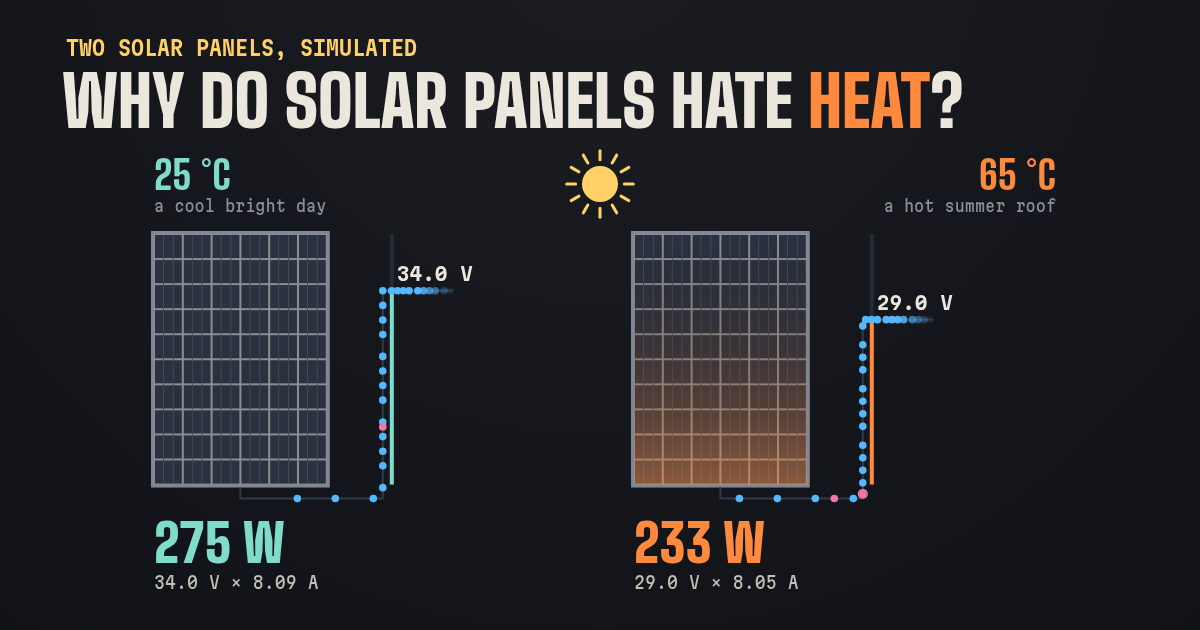
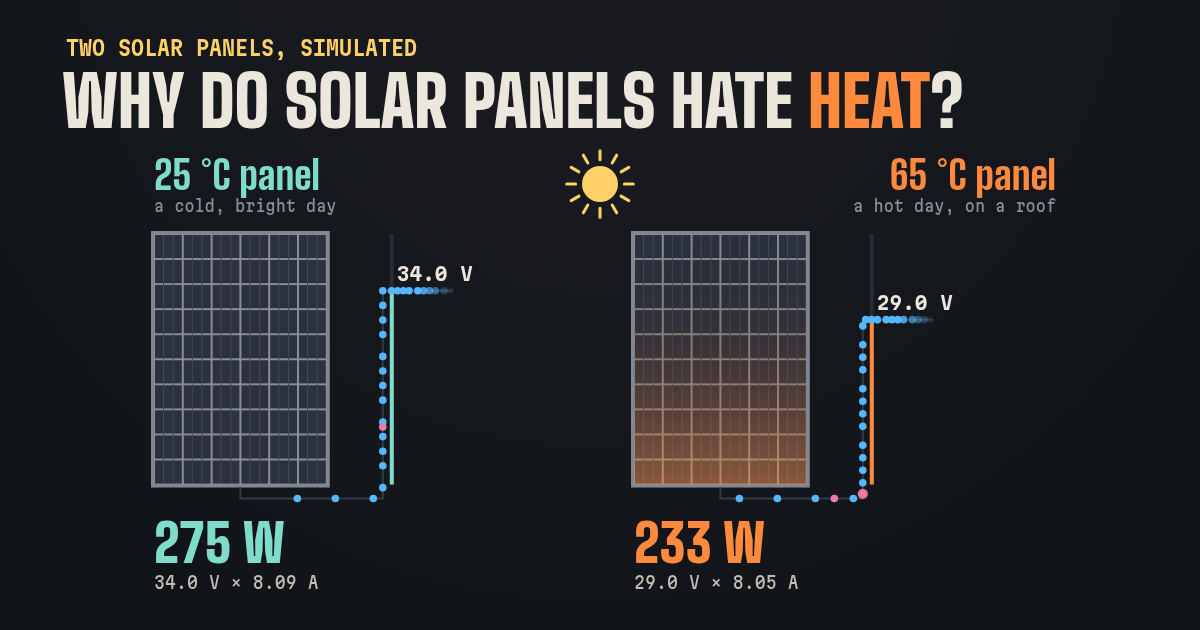
Solar heat: after the framing review, the why in the film (the hill, a dot legend, readable meters), the lede says the mechanism, picture 2 leads with its point, held panels agree at 0 W

Changed region(s): [[0.7092, 0.2413, 0.8942, 0.3619], [0.1542, 0.2413, 0.2775, 0.3619]]

diff --git a/src/explorables/solar-heat/index.html b/src/explorables/solar-heat/index.html
@@ -161,8 +161,8 @@ h1 em { font-style: normal; color: var(--hot); }
     <p class="kicker" style="margin-top:34px">A solar panel, three pictures</p>
     <h1>Why do solar panels hate <em>heat</em>?</h1>
     <p class="byline">Claude Opus 5.5 <span>//</span> 16 October 2026</p>
-    <p class="lede">Under the same sun, a solar panel on a hot summer roof makes about 15% less power than on a cool, bright day. Its sunlight isn't any weaker, and it hardly loses any electrons. What heat opens is a leak, and what the panel loses is the price of keeping that leak small.</p>
-    <p>Below are two identical panels under the same <span class="sun">sun</span>, simulated live in your browser: a <span class="cool">cool</span> one at 25 °C and a <span class="hot">hot</span> one at 65 °C. The bar that sticks to the top of the screen sets their temperatures and the sun, and can hold both at the same voltage.</p>
+    <p class="lede">Under the same sun, a solar panel on a hot roof makes about 15% less power than on a cold, bright day. It delivers just as many electrons, but each one carries less energy. The reason: heat lets electrons leak back over the panel's one-way hill, and to keep that leak small, a hot panel has to run at a lower voltage.</p>
+    <p>Below are two identical panels under the same <span class="sun">sun</span>, simulated live in your browser: a <span class="cool">cool</span> one at 25 °C and a <span class="hot">hot</span> one at 65 °C. (That's the panels' own temperature: in full sun, panels run 25 to 35 °C hotter than the air.) The bar that sticks to the top of the screen sets their temperatures and the sun, and can hold both at the same voltage.</p>
   </header>
 </div>
 
@@ -180,28 +180,29 @@ h1 em { font-style: normal; color: var(--hot); }
   <section class="col" id="panels">
     <p class="num-h">Picture 1</p>
     <h2>Two panels</h2>
-    <p>Each panel is 60 silicon cells joined in a row. In each cell, sunlight frees pairs of charges: an <span class="e">electron</span> and a <span class="h">hole</span>, the gap the electron left behind, which moves like a positive charge. A junction just under the cell's front surface sends electrons one way and holes the other. That one-way push is what drives a current round the circuit, at a voltage.</p>
+    <p>Each panel is 60 silicon cells joined in a row. In each cell, sunlight knocks <span class="e">electrons</span> loose, and a one-way junction just under the cell's front surface pushes them out round the circuit, at a voltage.</p>
     <figure class="fig">
       <canvas id="figPanels" aria-label="Two solar panels under one sun, each with its voltage, current and power, and below, each panel's power at every voltage"></canvas>
-      <figcaption>Top: each <span class="e">blue dot</span> is about 4 × 10¹⁸ electrons, delivered round the circuit, in real time. It rises as high as the panel's voltage, the energy each electron carries away. <span class="leak">Pink dots</span> leak back inside the panel and are lost. Bottom: each panel's power at every voltage it could run at; the dot is where it runs, at its peak. (The inverter a panel is wired to finds that peak by itself.)</figcaption>
+      <figcaption>Top: each <span class="e">blue dot</span> is a crowd of electrons (about 4 × 10¹⁸), delivered round the circuit, in real time. It climbs as high as the panel's voltage: the energy each electron carries away. <span class="leak">Pink dots</span> climb part way, leak back inside the panel and are lost. Bottom: each panel's power at every voltage it could run at; the dot is where it runs, at its peak.</figcaption>
     </figure>
-    <p>The <span class="hot">hot</span> panel makes 233 watts, the <span class="cool">cool</span> one 275: 15% less. Now look at the meters. Both deliver the same current, about 8.1 amps: the same number of electrons each second. What the hot one has lost is voltage, 29.0 volts instead of 34.0. Power is current times voltage, so the voltage is what costs it.</p>
-    <p>Why does it run at a lower voltage? Tick <i>hold both at the left one's best voltage</i>. At the cool panel's 34 volts, the hot panel delivers nothing at all (a trickle even runs backwards into it): every electron the sun frees in it leaks back inside. That leak is the whole story.</p>
+    <p>The <span class="hot">hot</span> panel makes 233 watts, the <span class="cool">cool</span> one 275: 15% less. Now look at the meters. Both deliver the same current, about 8.1 amps: the same number of electrons each second. What the hot one has lost is voltage, 29.0 volts instead of 34.0. Power is current times voltage, so the voltage is what costs it. (Each panel runs at its peak because the inverter it's wired to hunts for the peak by itself.)</p>
+    <p>Why does it run at a lower voltage? Tick <i>hold both at the left one's best voltage</i>. At 34 volts, the hot panel delivers nothing at all: its whole current leaks back inside. That leak is the whole story.</p>
     <div class="sh"><div class="shows"><h4>Shows</h4><p>How much power each panel makes, and that heat takes it from the voltage, not the current.</p></div><div class="hides"><h4>Hides</h4><p>What the leak is, and why heat makes it worse.</p></div></div>
   </section>
 
   <section class="col" id="hill">
     <p class="num-h">Picture 2</p>
     <h2>The hill</h2>
-    <p>Here's the leak. This is the front of one cell, its first 1.6 thousandths of a millimetre, drawn as an energy map: up is more energy for an electron. <span class="e">Electrons</span> move along the top band, <span class="h">holes</span> along the bottom one. Between the cell's thin front layer and its base, the electrons' band climbs a hill. Electrons freed in the base roll down it into the front layer, and out round the circuit. Holes go the other way. That's the one-way push.</p>
+    <p>Here's the leak. The higher a panel's voltage, the lower the hill inside each cell, and the more electrons leak back over it.</p>
+    <p>This is the front of one cell, its first 1.6 thousandths of a millimetre, drawn as an energy map: up is more energy for an electron. <span class="e">Electrons</span> move along the top band. The gaps they leave behind, called <span class="h">holes</span>, act like positive charges and move along the bottom one. Between the cell's thin front layer and its base, the electrons' band climbs a hill. Electrons freed by light in the base roll down it into the front layer and out round the circuit: that's the one-way push.</p>
     <figure class="fig">
       <canvas id="figHill" aria-label="An energy map of the front of a cell in each panel: the electrons' and holes' bands, the hill between the front layer and the base, and the split between the electrons' and holes' levels"></canvas>
-      <figcaption>Energy across the front 1.6 µm of one cell in each panel, in electronvolts per electron. Thin lines are the edges of the bands, the least energy an electron can have (top) and the most a hole's missing electron can (bottom); the thick lines are the levels the electrons and holes fill to. Their split is the cell's voltage; sixty cells give the panel's. (At the front contact, the holes' level drops to meet the electrons': holes that reach it are lost there.) "Gets over" is the share of the electrons at the foot of the hill that have the energy to reach its top.</figcaption>
+      <figcaption>Energy across the front 1.6 µm of one cell in each panel, in electronvolts per electron. Thin lines are the edges of the bands: the least energy an electron can have (top), and the most a hole's missing electron can (bottom). The thick lines are the levels the electrons and holes fill to; their split is the cell's voltage. "Gets over" is the share of the electrons at the foot of the hill that have the energy to reach its top. Holes leak too, the other way, into the front layer: in this cell, nearly half the leak. At the front contact, the holes' level drops to meet the electrons': holes that reach it are lost there.</figcaption>
     </figure>
-    <p>The thick lines are the levels the electrons and holes fill up to, and the split between them is the cell's voltage. The higher the voltage, the lower the hill. And some electrons in the front layer climb back over it, into the base, where they meet holes and are lost. (Holes leak the other way too, into the front layer: in this cell, nearly half the leak is holes.) That's the leak, and it grows with the voltage.</p>
-    <p>What lifts an electron over the hill is heat. Silicon's atoms jiggle, and pass their jiggling on to the electrons; only the luckiest few have the energy to climb it. In the cool panel at 34 volts, it's about one in 900 000. Hold the hot panel at the same voltage, and it's one in 35 000: twenty-six times as many. Heat does it twice over: the electrons jiggle harder, and in warm silicon the hill itself is lower.</p>
-    <p>So the hot panel runs at a lower voltage, where the hill is high enough to hold the leak down: 0.39 electronvolts against the cool one's 0.35.</p>
-    <div class="sh"><div class="shows"><h4>Shows</h4><p>The one-way push, the leak back over the hill, and why heat helps it.</p></div><div class="hides"><h4>Hides</h4><p>The other 178 µm of the cell, where the light frees most of its pairs.</p></div></div>
+    <p>The thick lines are the levels the electrons and holes fill up to, and the split between them is the cell's voltage (sixty cells make the panel's). Raise the voltage and the hill gets lower: electrons in the front layer start climbing back over it into the base, where they meet holes and are lost. That's the leak.</p>
+    <p>What lifts an electron over the hill is heat. Silicon's atoms jiggle, and pass their jiggling on to the electrons; only the luckiest few have the energy to climb. Hold both panels at 34 volts: in the cool one, about one electron in 900 000 at the foot of the hill gets over. In the hot one, it's one in 36 000: about twenty-five times as many. Heat does it twice over: the electrons jiggle harder, and at the same voltage, warm silicon's hill is lower (0.30 electronvolts, against 0.35).</p>
+    <p>So the hot panel backs off to 29 volts. A lower voltage means a higher hill, 0.39 electronvolts, which pulls its leak back down to about one in 600 000. The price: each electron it delivers carries 29 volts' worth of energy instead of 34.</p>
+    <div class="sh"><div class="shows"><h4>Shows</h4><p>The one-way push, the leak back over the hill, and why heat helps it.</p></div><div class="hides"><h4>Hides</h4><p>The other 178 µm of the cell, where the light frees most of its electrons.</p></div></div>
   </section>
 
   <section class="col" id="share">
@@ -212,7 +213,7 @@ h1 em { font-style: normal; color: var(--hot); }
       <canvas id="figShare" aria-label="Each panel's power as a rectangle of current by voltage, and bars showing where every 100 pairs of charges the light frees end up"></canvas>
       <figcaption>Left: each panel's power, as the area of its rectangle. Right: where every 100 pairs of charges the sunlight frees end up: delivered round the circuit, or lost at the front (mostly light absorbed in the thin front layer, two-thirds of it blue and violet), in the base, or at the back. The dashed mark is how many each panel delivers at 0 volts, where nothing leaks back.</figcaption>
     </figure>
-    <p>The two rectangles are almost the same width; the <span class="hot">hot</span> one is shorter. On the right, the hot panel delivers 83 of every 100 pairs the light frees, and the cool one 85. Most of the rest were never going to make it: even at 0 volts, where nothing leaks back, each panel delivers only 88. So heat costs the panel about one electron in a hundred, and 5 volts on every one.</p>
+    <p>The two rectangles are almost the same width; the <span class="hot">hot</span> one is shorter. On the right, the hot panel delivers 83 of every 100 pairs (an electron and its hole) that the light frees, and the cool one 85: just over one in a hundred fewer. About 12 more are lost in both panels whatever the voltage, mostly light absorbed too near the surface: even at 0 volts, where nothing leaks back, each panel delivers 88. The rest leak back: 4 in the cool panel, 5 in the hot one. And the hot cell absorbs a little more of the sunlight, so its current is only half a percent lower. Heat costs the panel almost nothing in electrons, and 5 volts on every one.</p>
     <div class="sh"><div class="shows"><h4>Shows</h4><p>Power as count times height, and where every pair goes.</p></div><div class="hides"><h4>Hides</h4><p>Where in the cell the light frees its pairs.</p></div></div>
   </section>
 

diff --git a/src/explorables/solar-heat/pictures.js b/src/explorables/solar-heat/pictures.js
@@ -33,9 +33,10 @@ function mix(a, b, t) {
   return `rgb(${A.map((v, i) => Math.round(v + (B[i] - v) * t)).join(',')})`;
 }
 export const tempColour = (T) => mix(COL.cool, COL.hot, clamp((T - KELVIN - 25) / 40, 0, 1));
+// what a panel at T in full sun suggests (cells run some 25–35 °C above the air)
 export function describe(T) {
   const C = T - KELVIN;
-  return C < 5 ? 'a freezing bright day' : C < 35 ? 'a cool bright day' : C < 55 ? 'a warm roof' : 'a hot summer roof';
+  return C < 5 ? 'a freezing day' : C < 35 ? 'a cold, bright day' : C < 55 ? 'a warm day, on a roof' : 'a hot day, on a roof';
 }
 const fmt = (x, d = 1) => (Math.abs(x) < 0.5 * 10 ** -d ? 0 : x).toFixed(d).replace('-', '−');
 
@@ -146,7 +147,7 @@ export function drawPanels(f, st, opts = {}) {
   drawSun(ctx, VW / 2, 34, narrow ? 15 : 18, st.sun);
   st.panels.forEach((p, i) => {
     const x = L.panelX(i), col = tempColour(p.T), lx = L.lift(i), H = L.ph;
-    text(ctx, `${fmt(p.T - KELVIN, 0)} °C`, i === 0 ? x : i * L.cw + L.cw - (narrow ? 14 : 24), 40, { size: narrow ? 34 : 40, weight: 800, family: 'display', color: col, align: i === 0 ? 'left' : 'right' });
+    text(ctx, `${fmt(p.T - KELVIN, 0)} °C panel`, i === 0 ? x : i * L.cw + L.cw - (narrow ? 14 : 24), 40, { size: narrow ? 34 : 40, weight: 800, family: 'display', color: col, align: i === 0 ? 'left' : 'right' });
     text(ctx, describe(p.T), i === 0 ? x : i * L.cw + L.cw - (narrow ? 14 : 24), 62, { size: narrow ? 11 : 12, color: COL.muted, align: i === 0 ? 'left' : 'right' });
     drawPanelArt(ctx, x, L.top, L.pw, L.ph, p.T, st.sun);
     // the wire from the panel's foot to the lift, and the lift: as high as the panel's voltage
@@ -260,7 +261,7 @@ function drawPV(ctx, st, c, narrow) {
 const XMAX = 1.6e-6; // the front 1.6 µm: the emitter, the junction, and the start of the base
 export function drawHill(f, st) {
   const { ctx, VW, VH } = f, narrow = VW < 800;
-  TS = narrow ? 1.2 : 1;
+  TS = narrow ? 1.2 : 1.15;
   ctx.clearRect(0, 0, VW, VH);
   const lv = st.panels.map((p) => p.op.levels ?? levels(p.op.S));
   // one energy scale for both: from below the lowest E_v to above the highest E_c, in the window
@@ -269,11 +270,11 @@ export function drawHill(f, st) {
   const cw = narrow ? VW : VW / 2, ch = narrow ? VH / 2 : VH;
   st.panels.forEach((p, i) => {
     const L = lv[i], ox = narrow ? 0 : i * cw, oy = narrow ? i * ch : 0;
-    const px0 = ox + (narrow ? 56 : 64), px1 = ox + cw - (narrow ? 110 : 124), py0 = oy + 46, py1 = oy + ch - 34;
+    const px0 = ox + (narrow ? 56 : 64), px1 = ox + cw - (narrow ? 124 : 124), py0 = oy + 46, py1 = oy + ch - 34;
     const X = (x) => px0 + ((px1 - px0) * x) / XMAX, Y = (E) => py1 - ((py1 - py0) * (E - lo)) / (hi - lo);
     const col = tempColour(p.T), idx = L.x.map((x, g) => g).filter((g) => L.x[g] <= XMAX * 1.0001);
     text(ctx, `${fmt(p.T - KELVIN, 0)} °C`, px0, oy + 26, { size: 26, weight: 800, family: 'display', color: col });
-    text(ctx, st.same ? `held at ${fmt(panel.V(st.panels[0].op.V))} V` : `at its best, ${fmt(panel.V(p.op.V))} V`, px0 + 62, oy + 26, { size: 11.5, color: COL.muted });
+    text(ctx, st.same ? `held at ${fmt(panel.V(p.op.V))} V` : `at its best, ${fmt(panel.V(p.op.V))} V`, px0 + 62, oy + 26, { size: 11.5, color: COL.muted });
     // the emitter, shaded
     ctx.fillStyle = COL.line;
     ctx.globalAlpha = 0.35;
@@ -330,6 +331,8 @@ export function drawHill(f, st) {
     arrow(ctx, sx, yp - 2, sx, yn + 2, COL.ink, true);
     text(ctx, `${(L.Efn[g1] - L.Efp[g1]).toFixed(3)} V`, sx + 6, (yn + yp) / 2 - 6, { size: 11.5, weight: 600, color: COL.ink });
     text(ctx, 'split', sx + 6, (yn + yp) / 2 + 9, { size: 10.5, color: COL.muted });
+    text(ctx, '× 60 cells', sx + 6, (yn + yp) / 2 + 23, { size: 10.5, color: COL.muted });
+    text(ctx, `= ${fmt(panel.V(L.Efn[g1] - L.Efp[g1]))} V`, sx + 6, (yn + yp) / 2 + 37, { size: 10.5, color: COL.muted });
   });
 }
 function oneIn(n) {

diff --git a/films/solar-heat.html b/films/solar-heat.html
@@ -40,7 +40,7 @@ const phaseAt = (t) => PHASES.find((p) => t < p.until) ?? PHASES.at(-1);
 const cool = new Panel(KELVIN + 25, 1), hot = new Panel(KELVIN + 65, 1);
 const coolOp = cool.operate(cool.Vmp), hotBest = hot.operate(hot.Vmp);
 // the hot panel's voltage: its own best, raised to the cool one's while it's held, then let down.
-// (Held at its own open-circuit voltage, 0.1 mV a cell short of the cool one's best, so it
+// (Held at its own open-circuit voltage, half a millivolt a cell short of the cool one's best, so it
 // delivers exactly nothing rather than taking a trickle: both read 34.0 V.)
 const ease = (u) => (u <= 0 ? 0 : u >= 1 ? 1 : u * u * (3 - 2 * u));
 const HELD = Math.min(cool.Vmp, hot.Voc);
@@ -56,9 +56,9 @@ reset();
 
 function caption(key) {
   // (each short enough to read in its scene)
-  if (key === 'same') return ['Same sun. 15% less power.', 'Look at the meters: the same current, but a lower voltage.'];
-  if (key === 'held') return ['Hold it at the same voltage', '…and it makes nothing. Heat lets every electron leak back.'];
-  if (key === 'lower') return ['So a hot panel runs lower', 'Just as many electrons, but each carries less energy.'];
+  if (key === 'same') return ['Same sun. 15% less power.', 'Same current, 8.1 amps. But 29 volts, not 34.'];
+  if (key === 'held') return ['Force the hot one to 34 volts', '…and it makes nothing. Heat lets its electrons leak back over the cell’s one-way hill.'];
+  if (key === 'lower') return ['So a hot panel runs lower', 'Lower voltage, higher hill, less leak. Same electrons, less energy each.'];
   return ['Simulated, not drawn', 'Every frame is computed from a physical model. Try it: link in reply.'];
 }
 function wrap(text, width) {
@@ -78,7 +78,7 @@ function draw(k) {
   ctx.fillRect(0, 0, W, H);
   // the panels, and their power curves
   ctx.save(); ctx.translate(0, 300); ctx.scale(S, S);
-  drawPanels({ ctx, VW: 960, VH: 860 }, st, { ts: 1.45, clear: false });
+  drawPanels({ ctx, VW: 960, VH: 860 }, st, { ts: 1.8, clear: false });
   ctx.restore();
   // the headline
   ctx.textBaseline = 'alphabetic';
@@ -113,6 +113,24 @@ function draw(k) {
     }
     ctx.globalAlpha = 1;
   }
+  // what the dots and the curve are
+  if (key !== 'question' && key !== 'end') {
+    ctx.globalAlpha = Math.min(1, j / 8);
+    ctx.font = '600 23px "Martian Mono", monospace';
+    ctx.textBaseline = 'middle';
+    const dot = (y, c) => { ctx.fillStyle = c; ctx.beginPath(); ctx.arc(72, y, 9, 0, 2 * Math.PI); ctx.fill(); };
+    dot(256, COL.e);
+    ctx.fillStyle = COL['ink-2'];
+    ctx.fillText('electrons delivered, lifted to the voltage', 92, 257);
+    if (key !== 'same') { dot(288, COL.leak); ctx.fillStyle = COL['ink-2']; ctx.fillText('electrons leaking back', 92, 289); }
+    ctx.globalAlpha = 1;
+  }
+  ctx.textAlign = 'right';
+  ctx.textBaseline = 'alphabetic';
+  ctx.fillStyle = COL.ink;
+  ctx.font = '800 34px "Big Shoulders Display", sans-serif';
+  ctx.fillText('POWER AT EACH VOLTAGE', W - 40, 300 + (334 + 160 - 6) * S);
+  ctx.textAlign = 'left';
   // the footer
   ctx.font = '400 24px "Martian Mono", monospace';
   ctx.fillStyle = COL.muted;
@@ -150,7 +168,7 @@ function audio() {
   return render({
     seconds: frames / FPS,
     master: 1.2,
-    toks: heard.out.map((d) => ({ t: d.t, f: 180 * 2 ** (d.V / 12), pan: pan(d.i), gain: 0.1 })),
+    toks: heard.out.map((d) => ({ t: d.t, f: 180 * 2 ** (d.V / 12), pan: pan(d.i), gain: 0.075 })),
     bonks: heard.leak.map((d) => ({ t: d.t, f: 150, pan: pan(d.i), gain: 0.14 })),
   });
 }

diff --git a/src/explorables/solar-heat/worker.js b/src/explorables/solar-heat/worker.js
@@ -10,7 +10,10 @@ onmessage = ({ data: { id, T, sun, same } }) => {
     if (!panels[i]) panels[i] = new Panel(t, sun);
     else if (panels[i].T !== t || panels[i].sun !== sun) panels[i].set(t, sun);
   });
-  const V = [panels[0].Vmp, same ? panels[0].Vmp : panels[1].Vmp];
+  // Held together, the second goes to the first's best voltage, or its own open-circuit voltage if
+  // that's lower (a hotter panel's, at 65 °C against 25, is half a millivolt a cell lower): there it delivers
+  // exactly nothing, rather than taking a trickle.
+  const V = [panels[0].Vmp, same ? Math.min(panels[0].Vmp, panels[1].Voc) : panels[1].Vmp];
   postMessage({
     id,
     panels: panels.map((p, i) => {

diff --git a/checks/solar-heat-claims.md b/checks/solar-heat-claims.md
@@ -22,16 +22,18 @@ through": the check showed the hot panel at its best delivers nearly as many ele
 | fifteen | under the same sun, a hot roof (65 °C) makes about 15% less than a cool bright day (25 °C): 233 W against 275 | `hot_over_cool_power` = 0.847; `panel_cool_best.W` 275.2, `panel_hot_best.W` 233.2 | model |
 | same-current | both deliver about 8.1 A: the same number of electrons each second | `panel_cool_best.A` 8.09, `panel_hot_best.A` 8.05 | model |
 | voltage | the hot one runs at 29.0 V, the cool one at 34.0 V; power is current × voltage | `panel_*_best.V` | model |
-| held | at the cool panel's 34 V, the hot panel delivers nothing (a trickle even runs backwards) | `panel_hot_at_cool_V` A = −0.13, W = −4.5 (PASS line); the film holds it at its own V_oc (0.1 mV a cell lower), reading 34.0 V and 0 W | model |
-| hardly-loses | it hardly loses any electrons: 83 of every 100 pairs delivered, against 85 | `panel_*_best.per100.delivered` 83.3, 84.6 | model |
-| one-in-100 | heat costs about one electron in a hundred, and 5 volts on every one | 84.6 − 83.3 = 1.3; 34.0 − 29.0 V | model |
+| held | at 34 V, the hot panel delivers nothing: its whole current leaks back inside | page and film hold it at min(cool V_mp, hot V_oc), its own V_oc, 0.46 mV a cell below the cool one's best (`held_V_cell`); `panel_hot_at_cool_V` A = 0, W = 0 (PASS lines); both read 34.0 V | model |
+| as-many | it delivers just as many electrons (lede); its current is only half a percent lower, since the hot cell absorbs a little more sunlight; 83 of every 100 pairs delivered, against 85 | `panel_*_best.A` 8.05/8.09 = 0.995; `absorbed_mA_cm2` 39.78/39.33 = 1.011; `panel_*_best.per100.delivered` 83.3, 84.6 | model |
+| one-in-100 | just over one in a hundred fewer; heat costs almost nothing in electrons, and 5 volts on every one; the rest leak back, 4 in the cool panel and 5 in the hot | 84.6 − 83.3 = 1.3; 100 − 84.6 − 11.5 = 3.9, 100 − 83.3 − 11.7 = 5.0 (`per100`, `delivered_at_0V_per100`); 34.0 − 29.0 V | model |
 | at-0V | even at 0 V, where nothing leaks back, each delivers only 88 | `delivered_at_0V_per100` 88.5, 88.3 | model |
 | front-loss | lost at the front: mostly light absorbed in the thin front layer, two-thirds of it blue and violet | `front_loss_at_0V_per100` = 10; `freed_in_front_layer_per100` = 15.8; `freed_in_front_layer_below_500nm_share` = 0.65 | model |
 | leak | the leak: the higher the voltage, the more electrons climb back over the hill and are lost; it grows with the voltage | `leak_by_place_cool` (3.9 per 100 more lost at 34 V than at 0 V); hill 0.92 eV at 0 V, 0.35 at 34 V (`hill` in `Panel.operate`) | model |
 | holes-half | holes leak the other way, into the front layer: in this cell, nearly half the leak | `leak_by_place_cool.front_share` = 0.45 | model |
-| one-in | about one in 900 000 gets over at 34 V in the cool panel; one in 35 000 in the hot one held there: twenty-six times as many | `panel_cool_best.one_in` 920 000, `panel_hot_at_cool_V.one_in` 35 000, `one_in_ratio_same_V` 26.3 (the Boltzmann factor e^{−hill/kT}, read as the share at the foot that reaches the top) | model + arithmetic |
-| twice | heat does it twice: electrons jiggle harder (kT), and in warm silicon the hill is lower | hill at 34 V: 0.353 eV cool, 0.305 hot; kT 25.7 → 29.1 meV | model |
-| hill-best | the hot panel runs where the hill is 0.39 eV, the cool one's 0.35 | `panel_hot_best.hill_eV` 0.388, `panel_cool_best.hill_eV` 0.353 | model |
+| one-in | about one in 900 000 gets over at 34 V in the cool panel; one in 36 000 in the hot one held there: about twenty-five times as many | `panel_cool_best.one_in` 920 000, `panel_hot_at_cool_V.one_in` 36 000, `one_in_ratio_same_V` 25.6 (the Boltzmann factor e^{−hill/kT}, read as the share at the foot that reaches the top) | model + arithmetic |
+| twice | heat does it twice: electrons jiggle harder (kT), and at the same voltage warm silicon's hill is lower (0.30 eV against 0.35) | hill at 34 V: 0.353 eV cool, 0.305 hot; kT 25.7 → 29.1 meV | model |
+| hill-best | the hot panel backs off to 29 V, where the hill is 0.39 eV, pulling its leak down to about one in 600 000 | `panel_hot_best.hill_eV` 0.388, `panel_hot_best.one_in` 600 000 | model |
+| roof-air | panels in full sun run 25 to 35 °C hotter than the air (the page's note that 65 °C is the panel's own temperature) | see roof-temp | source |
+| film-hill | (film) heat lets its electrons leak back over the cell's one-way hill; lower voltage, higher hill, less leak; same electrons, less energy each | as leak, hill-best, as-many | model |
 | doubles | at a fixed voltage the leak doubles about every 8 °C | `leak_doubles_every_K` = 7.6; 25× from 25 to 65 °C at 0.55 V a cell (`leak_at_0_55V_mA_cm2`) | model |
 | split | the split between the electrons' and holes' levels is the cell's voltage | picture 2: E_Fn − E_Fp at the back of the window = V (0.569 at 0.567 V; the levels are flat to 2 mV across the base) | model |
 | front-contact | at the front contact, the holes' level drops to meet the electrons' | picture 2; the contact is an equilibrium sink for both | model |
